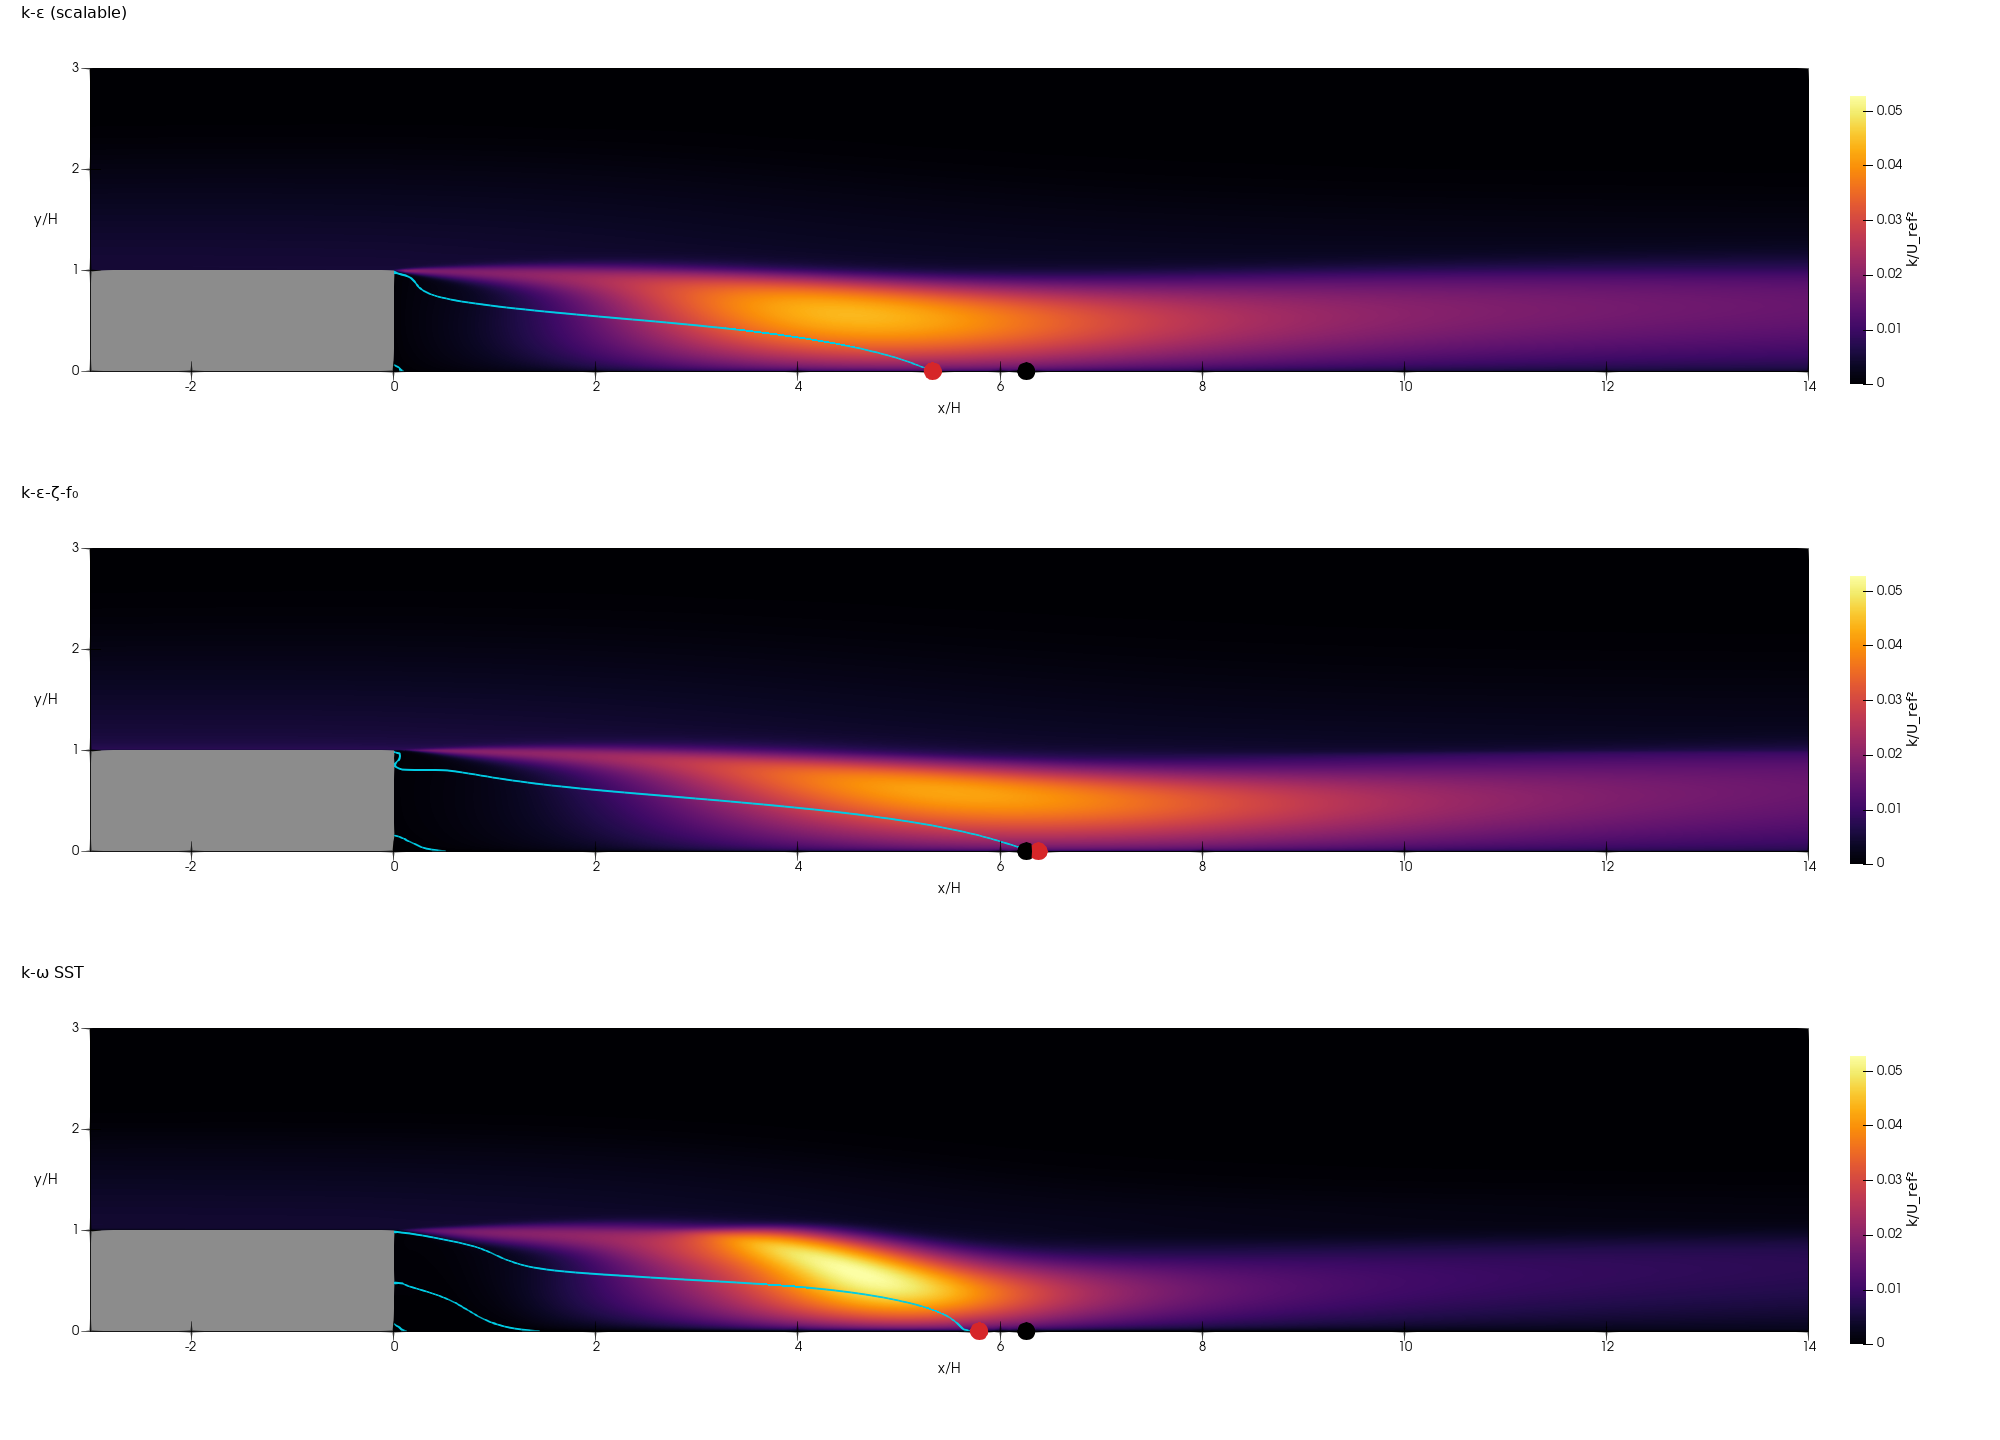
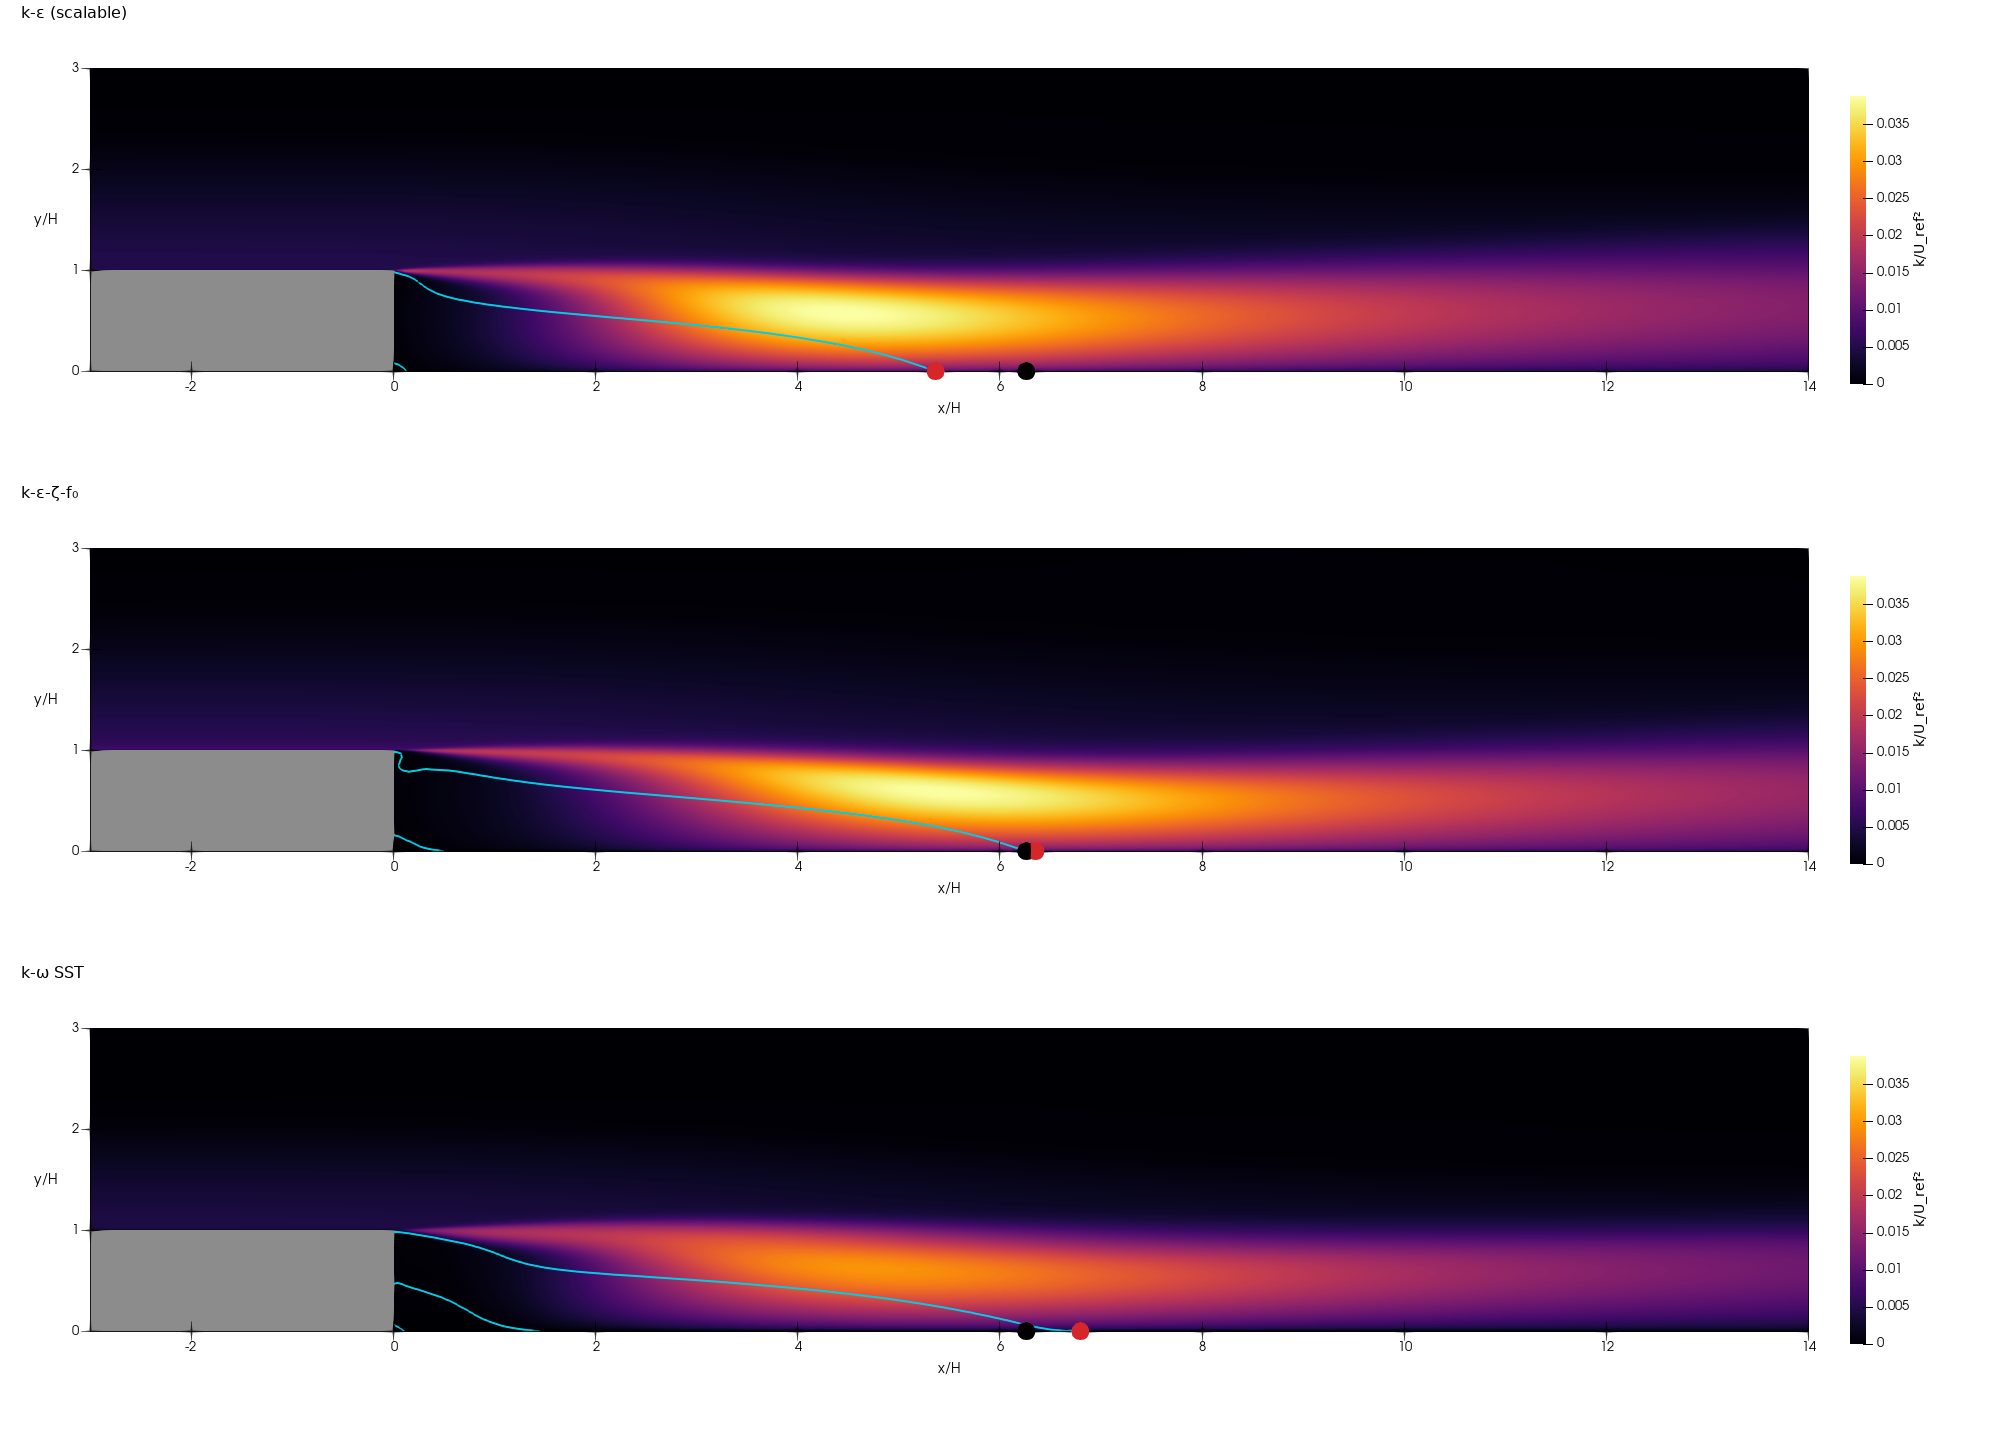
Backward-facing step: settled results, relaxation schedule, iteration budget (#77)
x_r against the iteration, measured on the three step studies: SST had not settled after 4 000 iterations at a momentum relaxation of 0.5 (5.79); settled it gives 6.80 (+9 %), k-ε 5.36, ζ-f₀ 6.35 on the fine mesh.

The studies and the CI case take the relaxation schedule 0.5, then 0.8 from iteration 100, and run 3 000 and 1 500 iterations. Gallery 74 figures redrawn from the settled runs; numbers corrected in the gallery, recipe, case catalogue, verification page and changelog; the iteration measurements are in verification stage 6d2.

diff --git a/docs/gallery/turbulence.md b/docs/gallery/turbulence.md
@@ -336,30 +336,30 @@ separated shear layer, halves ν_t there and the bubble grows to 7.4 H;
 ζ-f of 2004 has the same bound and gives 7.82 (+25 %), and 6.80 with `constants = { a = 0.849 }`.
 
 **Three models on the same step** (`examples/studies/backstep/`, the
-fine mesh of 32 800 cells). k-ε with scalable wall functions reattaches
-at 5.34 H (−15 %), k-ω SST at 5.79 H (−7 %) and k-ε-ζ-f₀ at 6.38 H
-(+2 %). The streamwise velocity with streamlines, the line U = 0 in
-white, the computed reattachment point in red and the experiment's in
-black:
+fine mesh of 32 800 cells, 3 000 iterations). k-ε with scalable wall
+functions reattaches at 5.36 H (−14 %), k-ε-ζ-f₀ at 6.35 H (+1.5 %) and
+k-ω SST at 6.80 H (+9 %). The streamwise velocity with streamlines, the
+line U = 0 in white, the computed reattachment point in red and the
+experiment's in black:
 
-![The streamwise velocity U/U_ref behind the backward-facing step from x/H = −3 to 14 with streamlines, one panel per model: k-ε with scalable wall functions (x_r/H = 5.34), k-ε-ζ-f₀ (6.38) and k-ω SST (5.79). The white line is U = 0, the red dot the computed reattachment point, the black dot the experiment's 6.26](../figures/gallery/backstep_velocity.png)
+![The streamwise velocity U/U_ref behind the backward-facing step from x/H = −3 to 14 with streamlines, one panel per model: k-ε with scalable wall functions (x_r/H = 5.36), k-ε-ζ-f₀ (6.35) and k-ω SST (6.80). The white line is U = 0, the red dot the computed reattachment point, the black dot the experiment's 6.26](../figures/gallery/backstep_velocity.png)
 
 The turbulent kinetic energy on one scale, with the line U = 0 in
-cyan. SST has the highest peak, k/U_ref² = 0.05 just ahead of
-reattachment, and the fastest decay behind it; k-ε builds k up earliest
-in the shear layer, ζ-f₀ latest, and ζ-f₀ carries it furthest
-downstream:
+cyan. k-ε and ζ-f₀ reach the same peak, k/U_ref² = 0.039, k-ε at
+x = 4.4 H and ζ-f₀ further downstream at 5.5 H; SST stays lower in the
+shear layer (0.030), mixes less and has the longest bubble:
 
-![The turbulent kinetic energy k/U_ref² behind the backward-facing step, one panel per model on the same colour scale from 0 to 0.053: k-ε with scalable wall functions, k-ε-ζ-f₀ and k-ω SST, with the line U = 0 in cyan and the reattachment points](../figures/gallery/backstep_k.png)
+![The turbulent kinetic energy k/U_ref² behind the backward-facing step, one panel per model on the same colour scale from 0 to 0.039: k-ε with scalable wall functions, k-ε-ζ-f₀ and k-ω SST, with the line U = 0 in cyan and the reattachment points](../figures/gallery/backstep_k.png)
 
 | Check | Result |
 |---|---|
 | Channel Re_τ 395, U_b⁺ at first-cell y⁺ 0.3 / 1 / 10 / 30 | +2.7 / +1.4 / −4.2 / −1.5 % (band ±3 % at y⁺ 1) |
 | Plate C_f(0.97) from White at y⁺ 1 / 10 / 30 | −2.5 / +0.9 / −2.0 %, all converged without a floor (band ±3 %) |
 | Plate from the TMR free stream | turbulent on its own, the same C_f |
-| Step x_r/H, 8 200 / 32 800 cells | 6.38 (+2 %) / 6.38: mesh-independent (band ±10 %) |
+| Step x_r/H, 8 200 / 32 800 cells | 6.38 (+2 %) / 6.35 (+1.5 %): mesh-independent to 0.5 % (band ±10 %) |
 | Step x_r/H with a = 0.6 / ζ-f | 7.44 / 7.82 (6.80 with a = 0.849) |
-| Step x_r/H, 32 800 cells: k-ε scalable / ζ-f₀ / SST | 5.34 (−15 %) / 6.38 (+2 %) / 5.79 (−7 %) |
+| Step x_r/H, 32 800 cells: k-ε scalable / ζ-f₀ / SST | 5.36 (−14 %) / 6.35 (+1.5 %) / 6.80 (+9 %); SST 6.81 on 8 200 cells |
+| Step iterations to x_r within 1 %, 8 200 / 32 800 cells (relaxation 0.5, then 0.8 from iteration 100) | k-ε 600 / 1 500, ζ-f₀ 550 / 1 750, SST 600 / 1 750 |
 | 1 against 4 threads (plate, 20 480 cells) | bit-identical |
 | Bad input (wall functions of the k-ε family, `compound-2023` with k-ε, `n_zeta` with ζ-f) | CASE005, CASE005, CASE002 |
 

diff --git a/docs/verification/stage6.md b/docs/verification/stage6.md
@@ -437,8 +437,10 @@ exposed faces; the step case uses it.
 | TMR plate (`tmr_plate_zeta_f0.toml`) from the TMR free stream, y⁺ 1 | C_f(0.97) against White, 2.875e-3; convergence | ±3 % | 2.802e-3 (−2.5 %), converged to 10⁻⁷, no floor |
 | The plate at y⁺ 10 / 30 | C_f(0.97) against White | ±3 % | +0.9 / −2.0 %, converged (ζ-f: not converged) |
 | Backward-facing step (`backstep_zeta_f0.toml`), 8 200 cells | x_r/H against 6.26 | ±10 % | 6.38 (+2 %) |
-| The step on 32 800 cells | x_r/H | ±10 % | 6.38 (+2 %), the same to 0.1 % |
-| The step with ζ-f (2004, `compound`) / SST (`automatic`, Gmsh mesh) | x_r/H | ±10 % | 7.82 (+25 %; 6.80 with `a = 0.849`) / 5.79 (−7 %) |
+| The step on 32 800 cells | x_r/H | ±10 % | 6.35 (+1.5 %), within 0.5 % of the coarse mesh |
+| The step with ζ-f (2004, `compound`) | x_r/H | ±10 % | 7.82 (+25 %; 6.80 with `a = 0.849`) |
+| The step with SST (`automatic`) on 8 200 / 32 800 cells | x_r/H | ±10 % | 6.81 / 6.80 (+9 %); the 5.79 reported first came from 4 000 iterations at α_u = 0.5, before the bubble had settled |
+| The step with k-ε (`scalable`), 32 800 cells | x_r/H | – | 5.36 (−14 %) |
 | The plate on 1 and 4 threads (20 480 cells) | residuals, wall shear after 8 iterations | bit-identical | asserted |
 | Kernels | f₀ form against the 2004 source, the limits of the blend (y⁺ 30 to 300), Γ as the derivative of the blend, ψ, dual numbers | – | kernel tests of `turb::zeta_f` and `turb::wall` |
 | Mesher | step volume, exposed area, unused nodes, taken names | exact | `removed_box_builds_a_step` |
@@ -448,6 +450,17 @@ S = (2 S_ij S_ij)^½ is active in the separated shear layer of the step
 and halves ν_t there; the bubble then grows to 7.4 to 7.7 H with both
 ζ-f models. (2) The published k sink −ε has no positive steady k in the
 laminar part of a boundary layer (the 6d finding); k/T_K removes it.
-(3) The step and the SST run are single meshes; C_p, C_f and the
-profiles against the experiment and a GCI follow with the stage 6
-validation.
+(3) C_p, C_f and the profiles of the step against the experiment and a
+GCI follow with the stage 6 validation. (4) Iterations of the step
+(measured after 6d2, fields every 50 to 250 iterations): with the
+momentum under-relaxation 0.5 throughout, x_r is within 1 % of its final
+value after 950 (ζ-f₀), 1 250 (k-ε) and 1 500 (SST) iterations on 8 200
+cells, and after about 2 900 (ζ-f₀) and more than 4 000 (SST) on 32 800
+cells. With 0.5 for the first 100 iterations and 0.8 after them it takes
+550 to 600 and about 1 750; 0.7 from the start works as well, 0.9 stalls
+the residual at 10⁻⁴, and a turbulence relaxation of 0.95 oscillates. The
+count grows about three times when the mesh spacing halves: the
+relaxation sets a local pseudo time step of a few cell transit times, and
+the bubble needs a fixed time to form. The scaled residual is 5·10⁻⁵ to
+2·10⁻⁴ when x_r has settled; a residual tolerance does not show when the
+step result is done.

diff --git a/docs/cases/flow.md b/docs/cases/flow.md
@@ -143,7 +143,7 @@ the keys are on the [key page](flow-keys.md#turbulence-d129d139).
 | `flow/channel_zeta_f0.toml` | generated hex 2D, 2 × 48 cells graded 27.3 towards both walls (first-cell y⁺ 1), periodic in x | channel flow at Re_τ = 395 with k-ε-ζ-f₀ (Popovac 2023) and `compound-2023`: U_b⁺ = 17.79, +1.4 % from the DNS | [gallery 74](../gallery/turbulence.md#zeta-f0), [recipe 74](../recipes/turbulence.md#zeta-f0) |
 | `flow/tmr_plate_zeta_f0.toml` | the mesh of `tmr_plate_zeta_f.toml` (first-cell y⁺ 1 at x = 0.97), 3 072 cells | the TMR flat plate with k-ε-ζ-f₀ from the TMR free stream: turns turbulent on its own, every field converged, C_f(0.97) = 2.802e-3, −2.5 % from White's correlation | [gallery 74](../gallery/turbulence.md#zeta-f0), [recipe 74](../recipes/turbulence.md#zeta-f0) |
 | `flow/backstep_zeta_f0.toml` | generated hex 2D, 125 × 80 cells with the step cut out (`remove`), 8 200 cells, first-cell y⁺ about 1.5 | the backward-facing step of Driver & Seegmiller (Re_H = 36 000) with k-ε-ζ-f₀: reattachment x_r/H = 6.38, +2 % from the experiment | [gallery 74](../gallery/turbulence.md#zeta-f0), [recipe 74](../recipes/turbulence.md#zeta-f0) |
-| `studies/backstep/keps.toml`, `zf0.toml`, `sst.toml` (in `examples/studies/`) | the mesh of `backstep_zeta_f0.toml` with each interval halved, 250 × 160 cells with the step cut out, 32 800 cells | the same step with k-ε and scalable wall functions, k-ε-ζ-f₀ and k-ω SST, with field output: x_r/H = 5.34, 6.38 and 5.79 against the experiment's 6.26; the velocity and k figures of the gallery | [gallery 74](../gallery/turbulence.md#zeta-f0), [recipe 74](../recipes/turbulence.md#zeta-f0) |
+| `studies/backstep/keps.toml`, `zf0.toml`, `sst.toml` (in `examples/studies/`) | the mesh of `backstep_zeta_f0.toml` with each interval halved, 250 × 160 cells with the step cut out, 32 800 cells | the same step with k-ε and scalable wall functions, k-ε-ζ-f₀ and k-ω SST, with field output: x_r/H = 5.36, 6.35 and 6.80 against the experiment's 6.26 after 3 000 iterations; the velocity and k figures of the gallery | [gallery 74](../gallery/turbulence.md#zeta-f0), [recipe 74](../recipes/turbulence.md#zeta-f0) |
 
 ## Derived fields
 

diff --git a/docs/recipes/turbulence.md b/docs/recipes/turbulence.md
@@ -289,6 +289,33 @@ target/release/foehn flow examples/studies/backstep/zf0.toml --out output/backst
 target/release/foehn flow examples/studies/backstep/sst.toml --out output/backstep_sst
 ```
 
+Each case starts with the momentum under-relaxation 0.5 while the bubble
+forms and switches to 0.8 at iteration 100:
+
+```toml
+[solver.momentum]
+relaxation = 0.5
+
+[[schedule]]
+at_iteration = 100
+set = { solver.momentum.relaxation = 0.8 }
+```
+
+That halves the iterations: x_r is within 1 % of its final value after
+about 600 iterations on the 8 200-cell mesh and 1 750 on the 32 800-cell
+mesh, for all three models. With 0.5 throughout SST needs more than
+4 000 on the fine mesh; 0.9 stalls the residual at 10⁻⁴. The residual
+is not the measure here: it is still 5·10⁻⁵ to 10⁻⁴ when x_r has
+settled, so the cases run to `max_iterations` (3 000) with
+`require_convergence = false`. To see when a result settles, have the
+run write the fields at a few iterations and compare them:
+
+```
+mkdir -p output/backstep_sst
+for n in 250 500 1000 1500 2000; do touch output/backstep_sst/.result_$n; done
+target/release/foehn flow examples/studies/backstep/sst.toml --out output/backstep_sst
+```
+
 The figures of the gallery, velocity with streamlines and turbulent
 kinetic energy, one panel per model, come from ParaView's Python or from
 matplotlib. Both scripts take an output prefix and `LABEL=DIR` per

diff --git a/changelog.d/77-backstep-iterations.md b/changelog.d/77-backstep-iterations.md
@@ -1,0 +1,10 @@
+- **Backward-facing step: settled results and half the iterations.** The
+  step cases start with the momentum under-relaxation 0.5 and switch to
+  0.8 at iteration 100 (`[[schedule]]`), which halves the iterations to a
+  settled reattachment length: about 600 on 8 200 cells and 1 750 on
+  32 800 cells for k-ε, k-ε-ζ-f₀ and SST. The fine study cases run 3 000
+  iterations, `backstep_zeta_f0` 1 500 instead of 4 000. Run to the end,
+  SST reattaches at x_r/H = 6.80 (+9 %), not 5.79; k-ε at 5.36 and
+  ζ-f₀ at 6.35 on the fine mesh. The figures of gallery 74 are redrawn
+  from the settled runs; recipe 74 shows how to check when a result
+  has settled.

diff --git a/changelog.d/76-backstep-figures.md b/changelog.d/76-backstep-figures.md
@@ -1,7 +1,7 @@
 - **Backward-facing step: three models, two field pictures (gallery 74).**
   `examples/studies/backstep/{keps,zf0,sst}.toml` run the step of Driver &
   Seegmiller on 32 800 cells with k-ε and scalable wall functions,
-  k-ε-ζ-f₀ and k-ω SST: x_r/H = 5.34, 6.38 and 5.79 against the
+  k-ε-ζ-f₀ and k-ω SST: x_r/H = 5.36, 6.35 and 6.80 against the
   experiment's 6.26. The gallery shows the velocity with streamlines and
   the turbulent kinetic energy, one panel per model.
 - **Figure scripts for 2D fields.** `tools/plot/backstep_paraview.py` makes

diff --git a/changelog.d/74-zeta-f0.md b/changelog.d/74-zeta-f0.md
@@ -24,4 +24,4 @@
   boundary layer turns turbulent from the TMR free stream (ζ-f stays
   laminar). Backward-facing step of Driver & Seegmiller (new case
   `backstep_zeta_f0`): x_r/H = 6.38, +2 % from the experiment (ζ-f +25 %,
-  SST −7 %).
+  SST +9 %).
